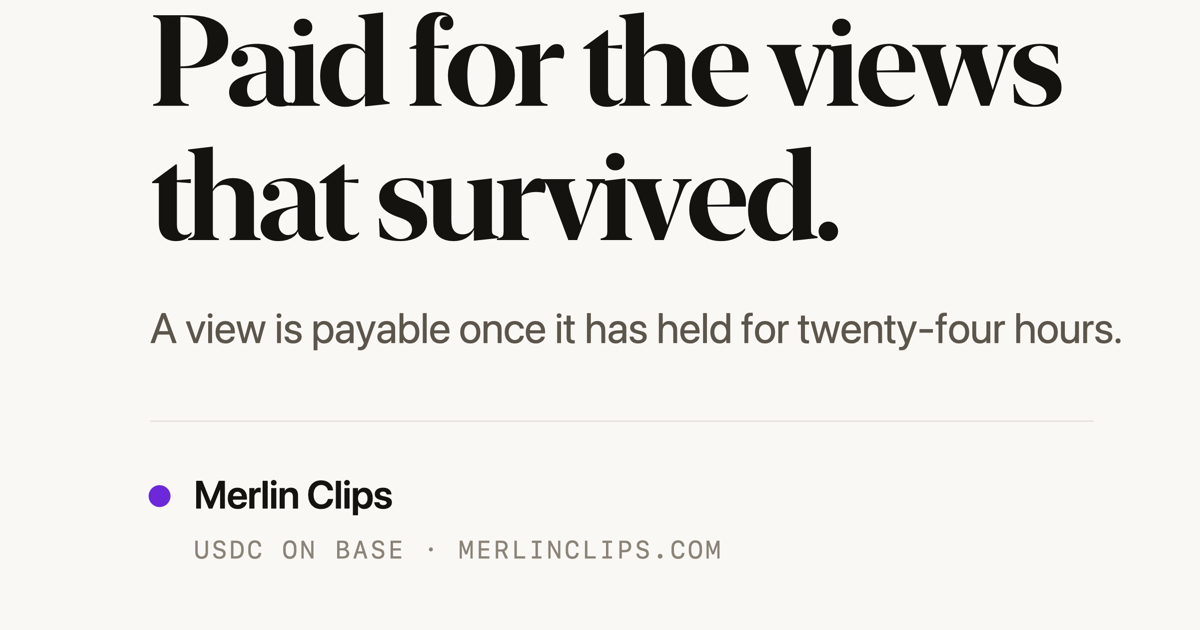
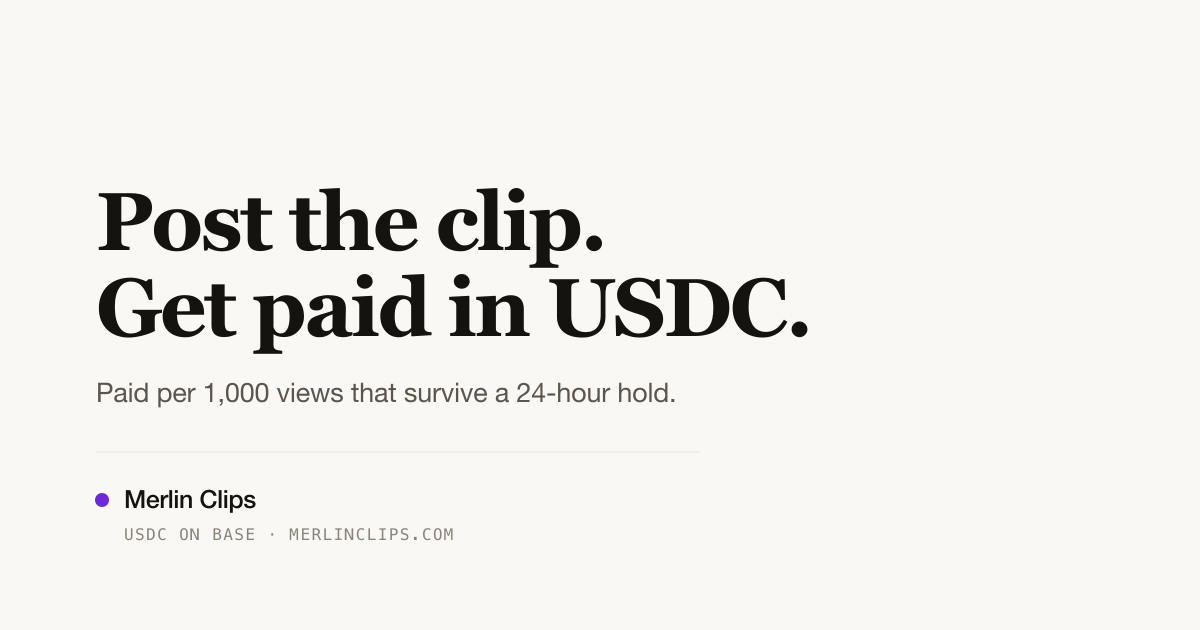
Regenerate the share card and give every page one (#86)
Three things were wrong with links shared out of this site.

The card itself was stale. landing/og.png is what every platform fetches —
no crawler renders SVG — and it was produced by hand once, then the SVG was
redesigned without it. The image people actually saw was the older
composition with the headline flush against the top edge. scripts/og.sh
renders it from the source now, with --check for CI, so a generated asset
cannot drift from the thing it is generated from.

The copy led with the mechanic. "Paid for the views that survived" is the
honest thing and the wrong thing to lead with: a creator scrolling past
decides on whether there is money in it, not on how the money is worked out.
The offer leads now and the hold qualifies it on the next line, which is
where it earns trust rather than competing for attention. No amount is
claimed, because the rate is per campaign.

Most pages had no card. /brand carried a title and description and no image,
type or twitter:card, so the link a brand receives rendered as bare text.
/profile had nothing at all. Both have the full set now, as does og:url,
which Facebook and LinkedIn use to deduplicate.

/architecture 404'd — only /architecture.html was routed, so the bare link
died. Both resolve now.

diff --git a/landing/brand.html b/landing/brand.html
@@ -5,8 +5,19 @@
 <meta name="viewport" content="width=device-width, initial-scale=1" />
 <title>Your campaigns — Merlin Clips</title>
 <meta name="description" content="Budget, spend, creators and coverage for every campaign you are running." />
-<meta property="og:title" content="Launch a campaign" />
-<meta property="og:description" content="Talk directly with our team." />
+<meta property="og:type" content="website" />
+<meta property="og:site_name" content="Merlin Clips" />
+<meta property="og:url" content="https://merlinclips.com/brand" />
+<meta property="og:title" content="Pay clippers for views that stick" />
+<meta property="og:description" content="Fund a pool in USDC. Creators clip, and you pay per 1,000 views that survive a 24-hour hold. Every settlement is checkable on Base." />
+<meta property="og:image" content="https://merlinclips.com/og.png" />
+<meta property="og:image:width" content="1200" />
+<meta property="og:image:height" content="630" />
+<meta property="og:image:alt" content="Merlin Clips — post the clip, get paid in USDC" />
+<meta name="twitter:card" content="summary_large_image" />
+<meta name="twitter:title" content="Pay clippers for views that stick" />
+<meta name="twitter:description" content="Fund a pool in USDC. Pay per 1,000 views that survive a 24-hour hold." />
+<meta name="twitter:image" content="https://merlinclips.com/og.png" />
 <link rel="canonical" href="https://merlinclips.com/brand.html" />
 <link rel="stylesheet" href="/styles.css" />
 <meta name="robots" content="noindex" />

diff --git a/landing/index.html b/landing/index.html
@@ -9,16 +9,18 @@
 <link rel="canonical" href="https://merlinclips.com/" />
 <link rel="stylesheet" href="/styles.css" />
 
+<meta property="og:url" content="https://merlinclips.com/" />
 <meta property="og:type" content="website" />
 <meta property="og:site_name" content="Merlin Clips" />
-<meta property="og:title" content="Merlin Clips" />
-<meta property="og:description" content="Pays creators only for views that survive a 24-hour retention hold. USDC on Base." />
+<meta property="og:title" content="Post the clip. Get paid in USDC." />
+<meta property="og:description" content="Post the clip, get paid in USDC. Paid per 1,000 views that survive a 24-hour hold, settled on Base." />
 <meta property="og:image" content="https://merlinclips.com/og.png" />
 <meta property="og:image:width" content="1200" />
 <meta property="og:image:height" content="630" />
+<meta property="og:image:alt" content="Merlin Clips — post the clip, get paid in USDC" />
 <meta name="twitter:card" content="summary_large_image" />
-<meta name="twitter:title" content="Merlin Clips" />
-<meta name="twitter:description" content="Pays creators only for views that survive a 24-hour retention hold. USDC on Base." />
+<meta name="twitter:title" content="Post the clip. Get paid in USDC." />
+<meta name="twitter:description" content="Post the clip, get paid in USDC. Paid per 1,000 views that survive a 24-hour hold, settled on Base." />
 <meta name="twitter:image" content="https://merlinclips.com/og.png" />
 </head>
 <body>

diff --git a/landing/profile.html b/landing/profile.html
@@ -5,6 +5,20 @@
 <meta name="viewport" content="width=device-width, initial-scale=1" />
 <title>Creator Studio — Merlin Clips</title>
 <meta name="description" content="Your clips, what survived the hold, and what settled to your wallet." />
+<link rel="canonical" href="https://merlinclips.com/profile" />
+<meta property="og:type" content="website" />
+<meta property="og:site_name" content="Merlin Clips" />
+<meta property="og:url" content="https://merlinclips.com/profile" />
+<meta property="og:title" content="Post the clip. Get paid in USDC." />
+<meta property="og:description" content="Your clips, what survived the 24-hour hold, and what settled to your wallet." />
+<meta property="og:image" content="https://merlinclips.com/og.png" />
+<meta property="og:image:width" content="1200" />
+<meta property="og:image:height" content="630" />
+<meta property="og:image:alt" content="Merlin Clips — post the clip, get paid in USDC" />
+<meta name="twitter:card" content="summary_large_image" />
+<meta name="twitter:title" content="Post the clip. Get paid in USDC." />
+<meta name="twitter:description" content="Your clips, what survived the hold, and what settled to your wallet." />
+<meta name="twitter:image" content="https://merlinclips.com/og.png" />
 <meta name="robots" content="noindex" />
 <link rel="icon" href="/logo.svg" type="image/svg+xml" />
 <link rel="stylesheet" href="/styles.css" />

diff --git a/landing/architecture.html b/landing/architecture.html
@@ -9,6 +9,7 @@
 <link rel="canonical" href="https://merlinclips.com/architecture.html" />
 <link rel="stylesheet" href="/styles.css" />
 
+<meta property="og:url" content="https://merlinclips.com/architecture" />
 <meta property="og:type" content="website" />
 <meta property="og:site_name" content="Merlin Clips" />
 <meta property="og:title" content="How a payout is decided — Merlin Clips" />

diff --git a/landing/ledger.html b/landing/ledger.html
@@ -228,6 +228,7 @@ tr:last-child td { border-bottom: 0; }
 .tx-link:hover { text-decoration: underline; }
 </style>
 
+<meta property="og:url" content="https://merlinclips.com/ledger" />
 <meta property="og:type" content="website" />
 <meta property="og:site_name" content="Merlin Clips" />
 <meta property="og:title" content="Public audit ledger — Merlin Clips" />

diff --git a/src/server.ts b/src/server.ts
@@ -752,6 +752,7 @@ const server = Bun.serve({
       '/favicon.ico': 'landing/logo.svg',
       '/og.svg': 'landing/og.svg',
       '/og.png': 'landing/og.png',
+      '/architecture': 'landing/architecture.html',
       '/architecture.html': 'landing/architecture.html',
       '/brands.html': 'landing/brands.html',
       '/api.html': 'landing/api.html',
